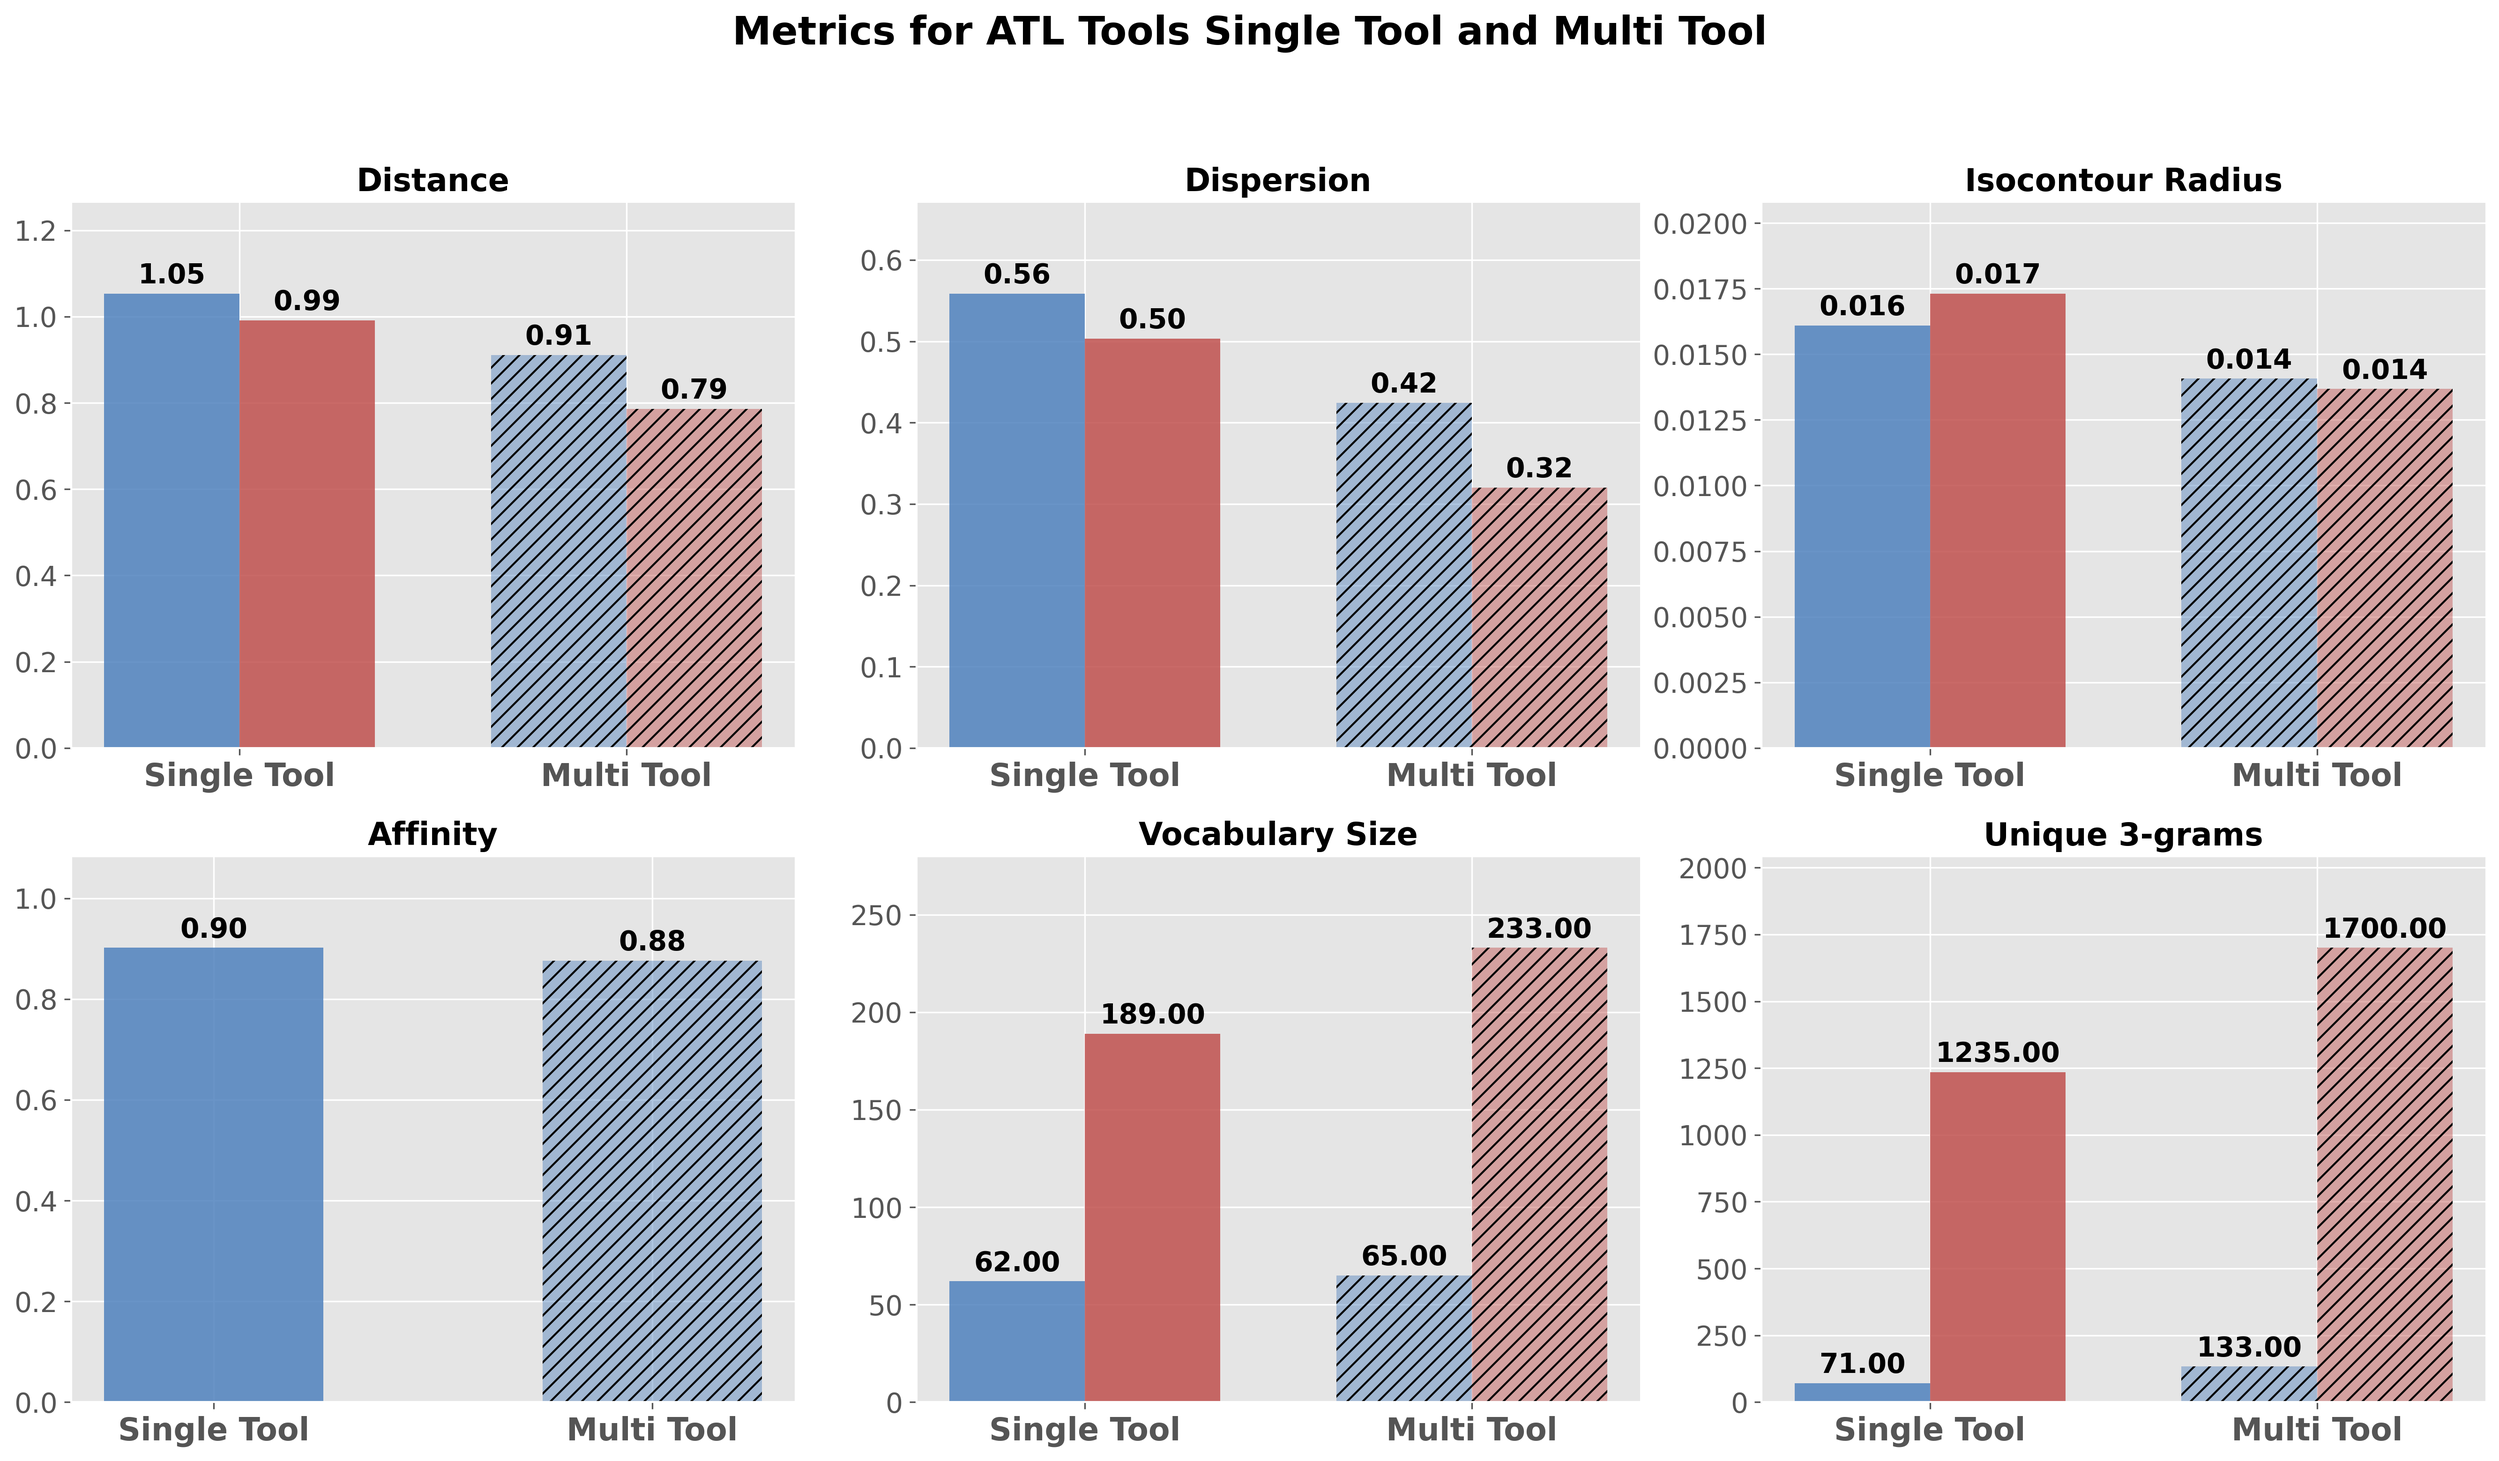
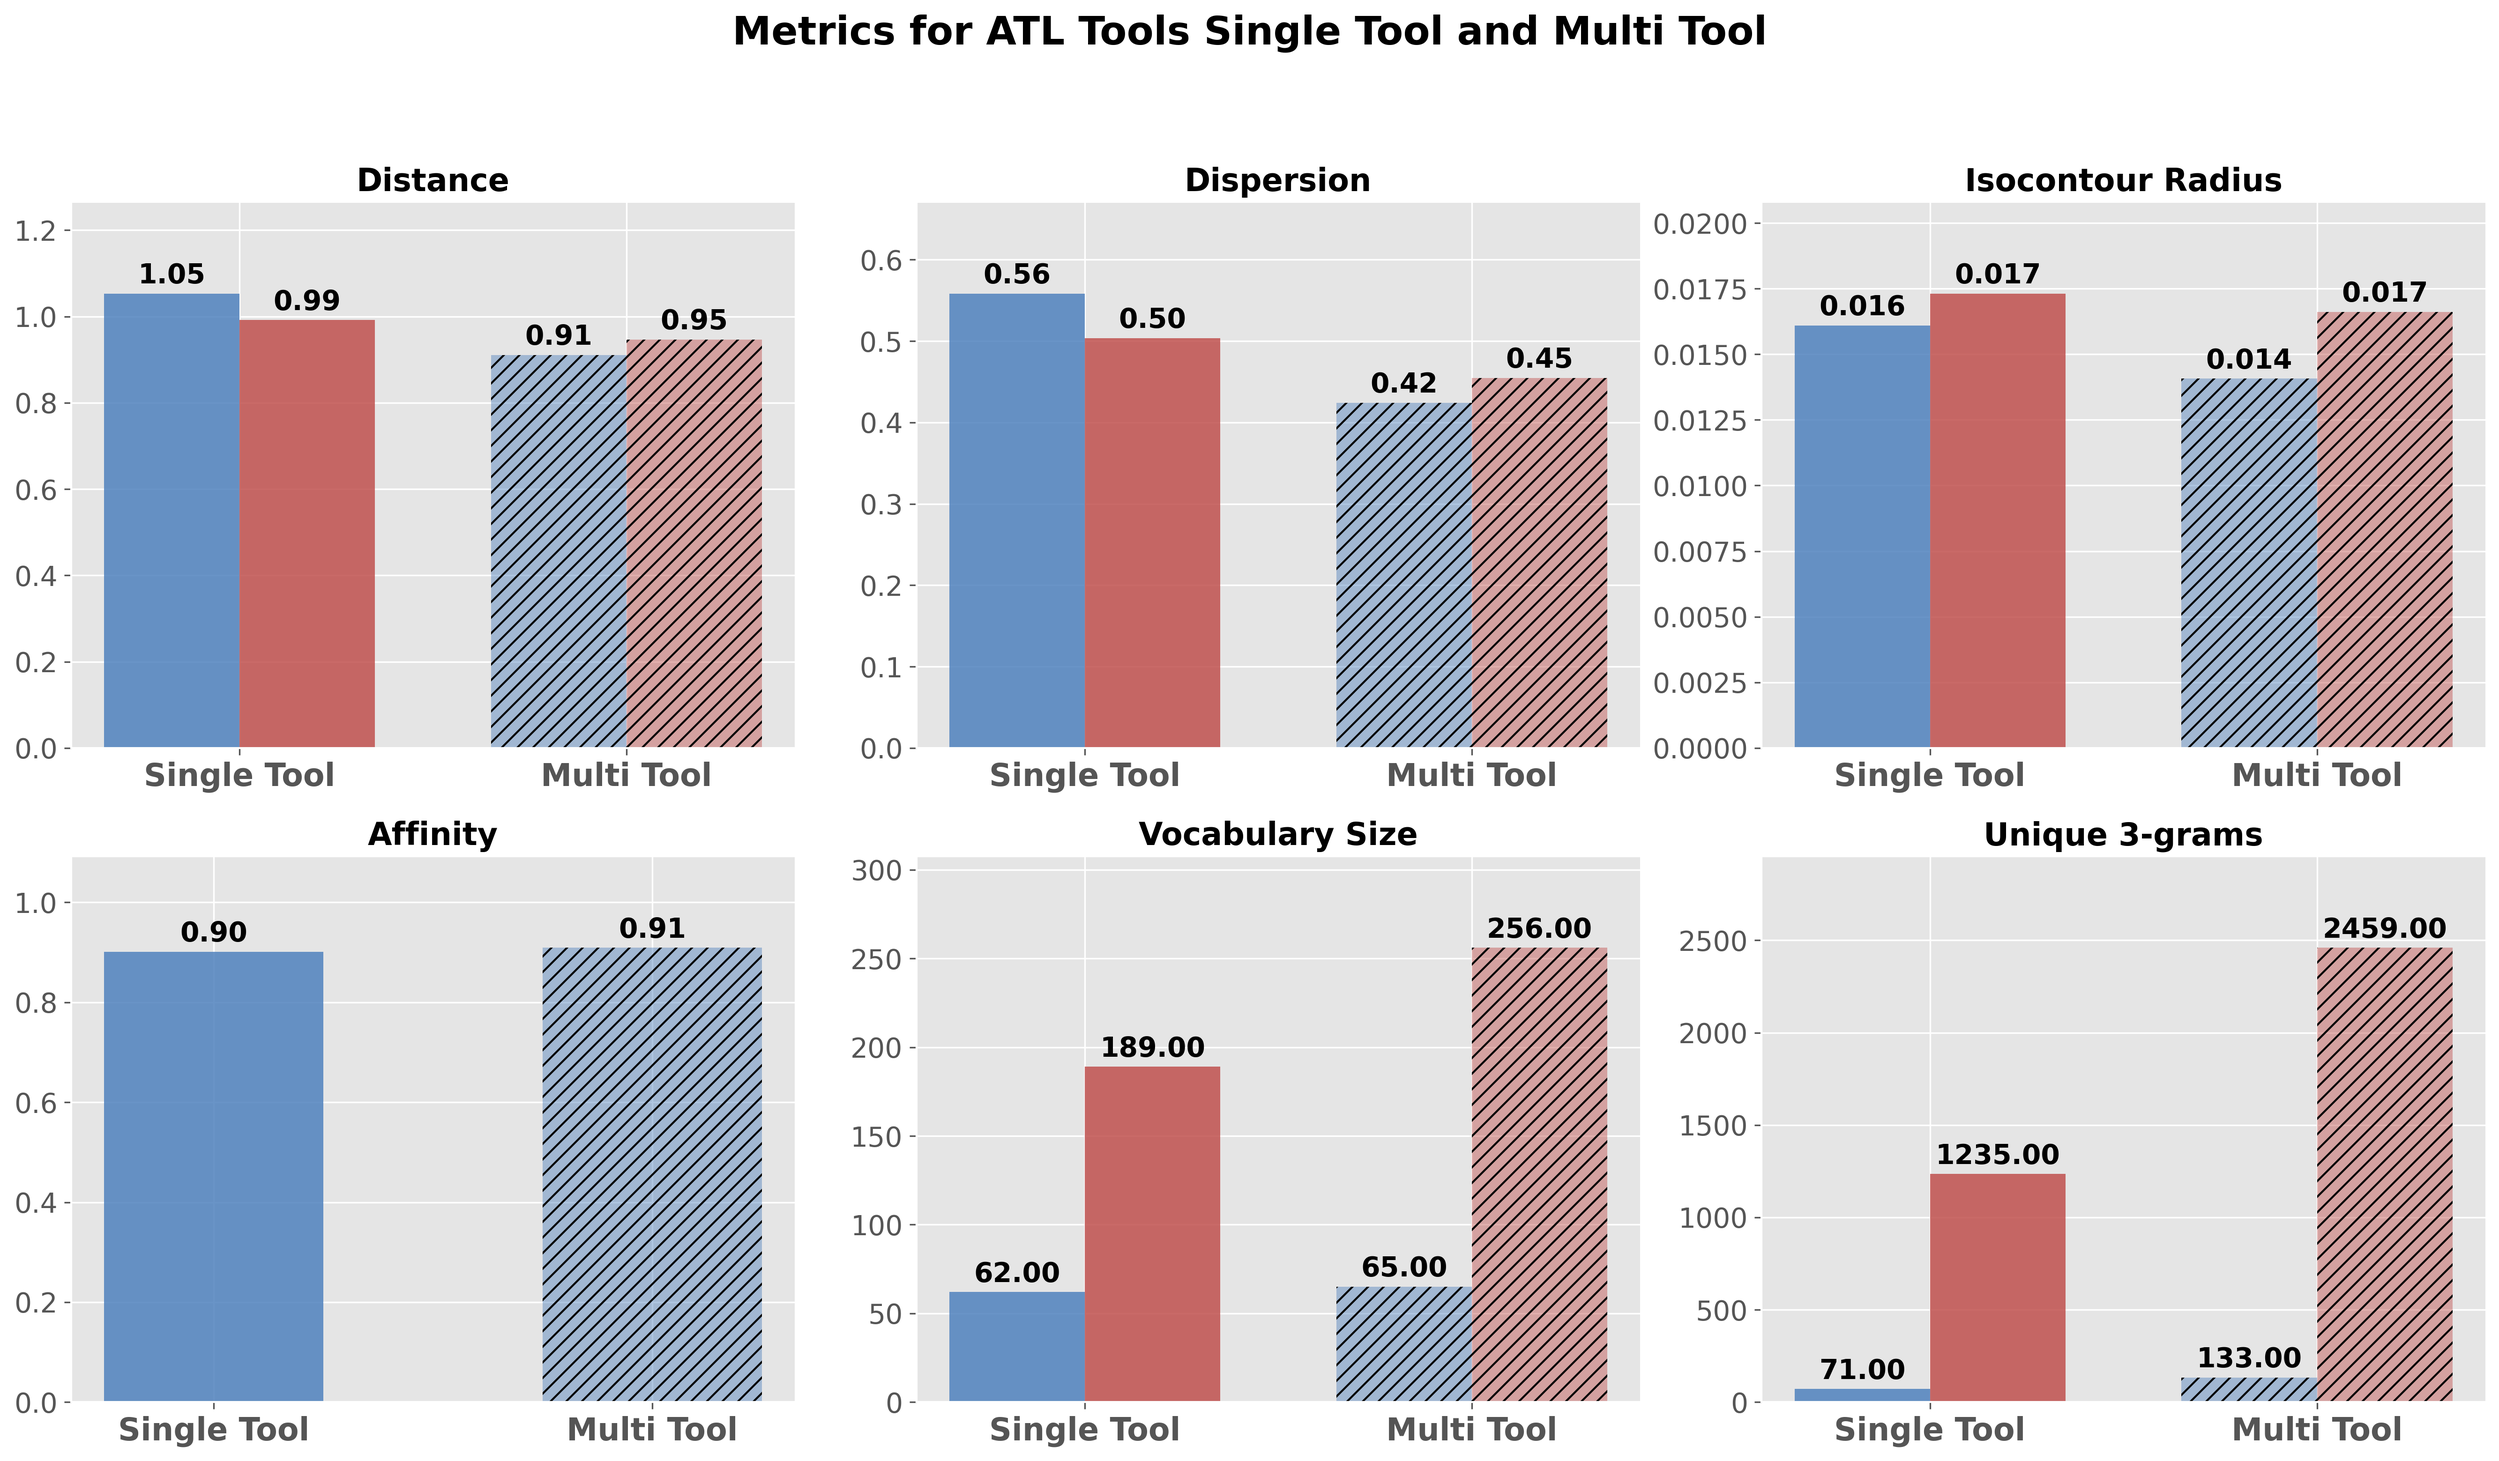
Feat: Generated new results that mirror the new dataset generation process

diff --git a/dataset generation/analyze_dataset_diversity.py b/dataset generation/analyze_dataset_diversity.py
@@ -277,11 +277,11 @@ def main(dataset_type="single"):
     # Define file paths based on dataset type
     if dataset_type == "multi":
         #uml files
-        seed_file_path = SCRIPT_DIR / "seeds" / "open_rewrite_tools" / "multi_tool_seeds.py"
-        generated_file_path = SCRIPT_DIR / "outputs" / "openRewrite" / "multi_openRewrite_500_dataset.json"
+        seed_file_path = SCRIPT_DIR / "seeds" / "all_tools" / "multi_tool_seeds.py"
+        generated_file_path = SCRIPT_DIR / "outputs" / "atl_tools" / "multi_500_dataset.json"
     else:  # default to single
-        seed_file_path = SCRIPT_DIR / "seeds" / "open_rewrite_tools" / "single_tool_seeds.py"
-        generated_file_path = SCRIPT_DIR / "outputs" / "openRewrite" / "single_openRewrite_500_dataset.json"
+        seed_file_path = SCRIPT_DIR / "seeds" / "all_tools" / "single_tool_seeds.py"
+        generated_file_path = SCRIPT_DIR / "outputs" / "atl_tools" / "simple_500_dataset.json"
     
     # Load datasets
     seed_instructions = load_seed_instructions(seed_file_path, dataset_type)
@@ -340,9 +340,9 @@ def main(dataset_type="single"):
     df_results = pd.DataFrame(results)
     
     # Save results with dataset-specific filename
-    openrewrite_dir = OUTPUT_DIR / "openRewrite"
-    openrewrite_dir.mkdir(parents=True, exist_ok=True)
-    csv_path = openrewrite_dir / f"{dataset_type}_openRewrite_tool_comparison.csv"
+    atl_dir = OUTPUT_DIR / "atl_tools"
+    atl_dir.mkdir(parents=True, exist_ok=True)
+    csv_path = atl_dir / f"{dataset_type}_atl_tool_comparison.csv"
     df_results.to_csv(csv_path, index=False)
     print(f"Results saved to {csv_path}")
 

diff --git a/dataset generation/visualize_metrics.py b/dataset generation/visualize_metrics.py
@@ -38,8 +38,8 @@ def load_data(dataset_type="all"):
         multi_tool_path = subdir / "multi_openRewrite_tool_comparison.csv"
     else:  # all tools (atl_tools)
         subdir = OUTPUT_DIR / "atl_tools"
-        single_tool_path = subdir / "single_tool_comparison.csv"
-        multi_tool_path = subdir / "multi_tool_comparison.csv"
+        single_tool_path = subdir / "single_atl_tool_comparison.csv"
+        multi_tool_path = subdir / "multi_atl_tool_comparison.csv"
     
     single_df = pd.read_csv(single_tool_path)
     multi_df = pd.read_csv(multi_tool_path)
